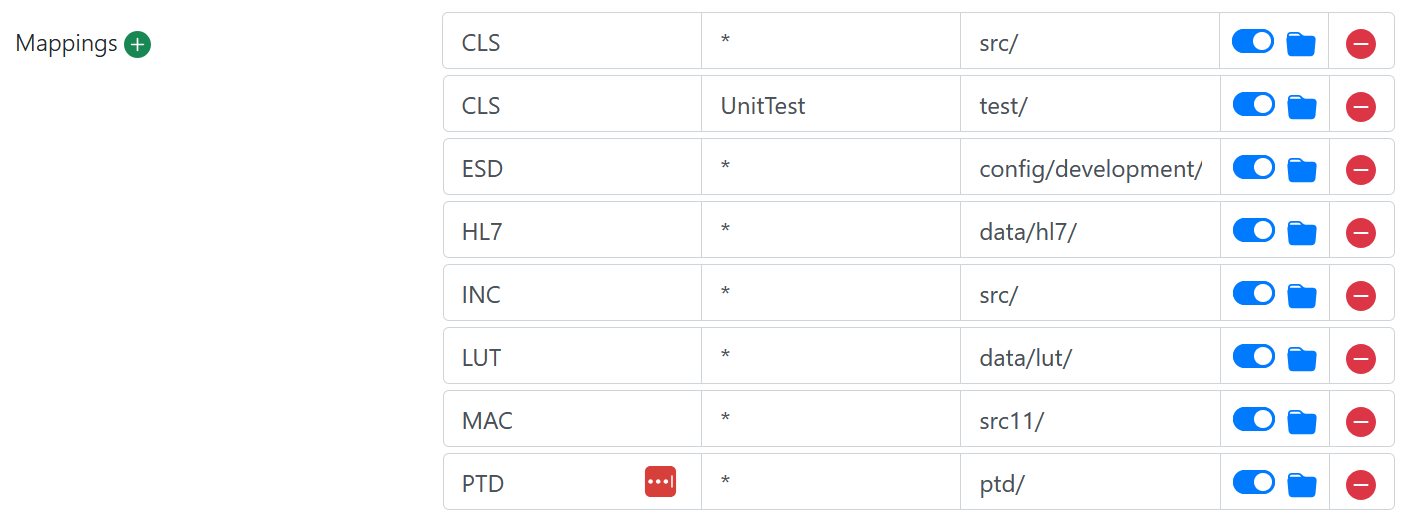
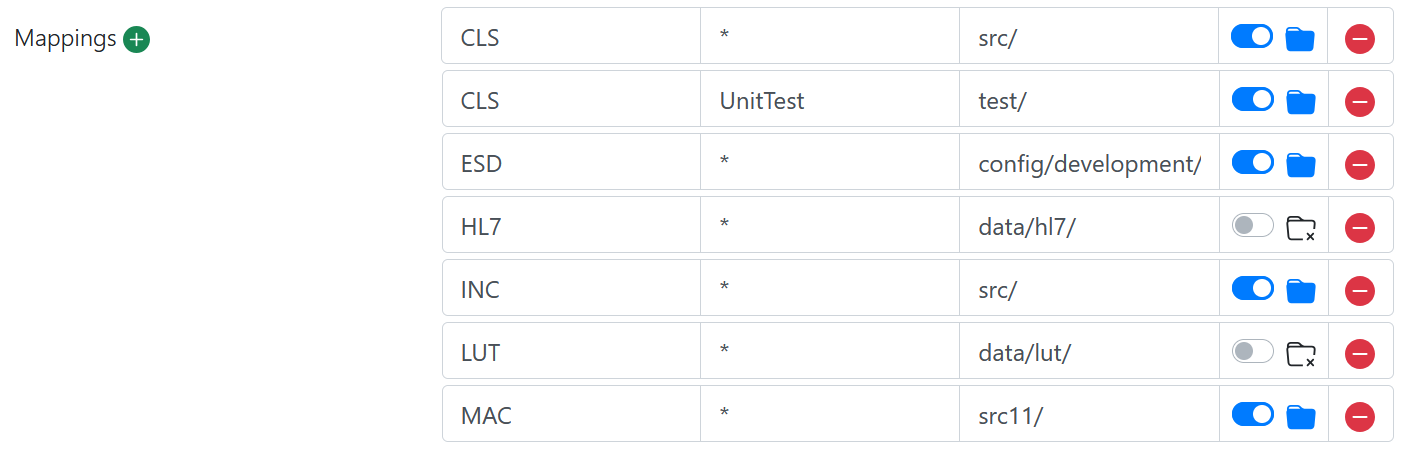
doc: updates to HCC recommended workflow

diff --git a/docs/hcc.md b/docs/hcc.md
@@ -1,36 +1,20 @@
-# NOTE: this document is a work in progress and should not be considered authoritative.
-
 # Change Control with Embedded Git for Health Connect Cloud
 
-## Glossary
-# TODO: move to end and move definitions inline
-* User Namespace: a namespace dedicated for in-progress work by a particular Health Connect Cloud user.
-* Protected Namespace: a namespace that exists with the same name in all deployments (Dev, Test, and Prod) in which the main interoperability production runs. Changes to protected namespaces are applied through CI/CD only.
-* Deployment: a Health Connect Cloud instance accessible through the Cloud Portal. There is typically a Dev, Test, and Prod deployment for each organization.
-* Dev Deployment: the Health Connect Cloud instance with a User Namespace for each user and one or more Protected Namespaces in which all development work originates
-* Test Deployment: the Health Connect Cloud instance in which interoperability components are tested prior to deployment to Prod.
-* Prod Deployment: the Health Connect Cloud instance serving actual production systems with interoperability.
-* protected branch: a branch in Git to which all commits must originate from a merge request
-* development branch: the protected branch associated with a Protected Namespace in the Dev Deployment. This branch is automatically present in the GitLab repository.
-* test branch: the protected branch associated with a Protected Namespace in the Test Deployment. This branch is automatically present in the GitLab repository.
-* live branch: the protected branch associated with a Protected Namespace in the Prod Deployment. This branch is automatically present in the GitLab repository.
-
 ## General 
-
 The recommended workflow for Health Connect Cloud is to: create an interface branch, make changes, sync them to GitLab, create a merge request, review and approve the merge request, and then pull the changes into a protected namespace.
 
-Step 1: Create a feature branch based on main
-![Step 1: Create a feature branch based on main](images/hcc/hcc-step-1.png)
-Step 2: Make changes in the user's namespace
-![Step 2: Make changes in the user's namespace](images/hcc/hcc-step-2.png)
-Step 3: Sync to get latest from main and push to GitLab
-![Step 3: Sync to get latest from main and push to GitLab](images/hcc/hcc-step-3.png)
+Step 1: Create an interface branch based on live
+![Step 1: Create a feature branch based on live](images/hcc/hcc-step-1.png)
+
+Step 2: Make changes in the User Namespace
+
+Step 3: Sync to get latest from live and push to GitLab
+![Step 3: Sync to get latest from live and push to GitLab](images/hcc/hcc-step-3.png)
+
 Step 4: Merge request and repeat 2-3
 ![Step 4: Merge request and repeat 2-3](images/hcc/hcc-step-4.png)
-Step 5: Deploy to the protected namespace
-![Step 5: Deploy to the protected namespace](images/hcc/hcc-step-5.png)
 
-A Health Connect Cloud Dev deployment will have at least one Protected Namespace and should also have a dedicated User Namespace for each user. These namespaces can be configured via the Cloud Portal for the selected Health Connect Cloud deployment. It is important for changes to originate in User Namespaces. Protected Namespaces in the Dev deployment must always be kept up to date with the development branch of the associated GitLab repo, either through a CI/CD pipeline or by use of the Git Pull page from Embedded Git.
+A Health Connect Cloud Dev deployment will have at least one Protected Namespace and should also have a dedicated User Namespace for each user. These namespaces can be configured via the Cloud Portal for the selected Health Connect Cloud deployment. It is important for changes to originate in User Namespaces. Protected Namespaces in the Dev deployment are automatically kept up to date with the development branch of the associated GitLab repo through a CI/CD pipeline.
 
 # Prerequisites: InterSystems Responsibilities
  - Create the GitLab repository for the organization
@@ -54,8 +38,8 @@ A Health Connect Cloud Dev deployment will have at least one Protected Namespace
 - Go to the production configuration page for your User Namespace
 - Create an interface branch
 - Add and test the service
-- Sync: After this operation, the User Namespace has everything from the Protected Namespace in addition to changes made in the interface branch, and all of the modified files have been pushed to GitLab.
-  - Technical level for the git-savvy: this commits to the interface branch locally, rebases the interface branch on the latest state of the development branch, updates the User Namespace with any changes made as a result, and force pushes the interface branch out to GitLab.
+- Sync: After this operation, the User Namespace has everything from the Prod Deployment in addition to changes made in the interface branch, and all of the modified files have been pushed to GitLab.
+  - Technical level for the git-savvy: this commits to the interface branch locally, rebases the interface branch on the latest state of the live branch, updates the User Namespace with any changes made as a result, and force pushes the interface branch out to GitLab.
 - Click the link to create a merge request targeting the `development` branch
 - Have the merge request approved and merged to the `development` branch
 - CI/CD deploys to the Protected Namespace on the Dev deployment
@@ -94,18 +78,18 @@ This will bring up the sync interface, where you are able to see all the of the 
 ![Sync Interface](images/hcc/syncinterface.png)
 
 ### Merge Request Creation
-Use the link in the output of the sync in order to create a merge request in the git remote (don't worry if you close out of the sync tab, you can also navigate to GitLab manually). Here, you should make sure that you are merging your interface branch into the development environment, and notify / add the relevant reviewers.
-TODO: add image of link in sync output
+Use the link in the output of the sync in order to create a merge request in the git remote (don't worry if you close out of the sync tab, you can also navigate to GitLab manually). Here, you should make sure that you are merging your interface branch into the development branch, and notify / add the relevant reviewers.
+![Output of Sync includes a merge request link](images/hcc/sync_output_merge_request_link.png)
 
-TODO: add image of GitLab merge request fields
-### Merge Request Approval
-Once this merge request is approved, it will be merged into the development branch, so that all of your changes will now be a part of development.
-
-### CI/CD Deployment
+![Create Merge Request page in GitLab](images/hcc/gitlab_merge_request.png)
+### Merge Request Approval and CI/CD deployment
+Once this merge request is approved, it will be merged into the development branch, so that all of your changes will now be a part of development. After the changes are merged, a CI/CD pipeline will automatically deploy the changes to the protected namespace in the development deployment.
 
 ### Validate in Protected Namespace
+Test your change in the protected namespace of the development environment to ensure that in works in the context of other developer's features that have been merged since you started working.
 
 ### Repeat in Test and Prod
+In GitLab, create a new merge request from your interface branch to the test branch. Approve and merge the merge request. A CI/CD pipeline will automatically deploy the changes to the protected namespace in the Test Deployment so you may test them there. When ready to go live with the changes, create another new merge request from your interface branch to the live branch. Approve and merge it, and the changes will be automatically deployed to the Prod Deployment.
 
 ## Example Use Case 2: You Get Interrupted
 
@@ -122,7 +106,6 @@ When creating a new namespace on the Health Connect instance, you will need to e
 - Configure the mappings in the settings. From the Settings page in the source control menu, view the Mappings configuration and confirm it matches the other namespaces. Below is a sample of a common mapping configuration.
 
 ![Mappings Configuration](images/hcc/configuremappings.png)
-TODO: fix this, show NoFolders for HL7 and LUT. remove the LastPass icon as well
 
 - Configure the default merge branch. From the Settings page in the source control menu, the "Default merge branch" input should match that configured for other namespaces.
 
@@ -132,65 +115,66 @@ TODO: fix this, show NoFolders for HL7 and LUT. remove the LastPass icon as well
 
 ![Import All (Force)](images/hcc/importallforce.png)
 
-### Deploying Changes to the Main Dev Namespace
+## Deploying using CI/CD Pipelines
 
-If you are using a CI/CD pipeline in GitLab, simply merging the feature branch to development is enough; your change will be deployed to the main development namespace automatically.
-
-If you are not using a CI/CD pipeline, you can get merged changes into the main development namespace using the "Git Pull" link from the Favorites section in the Health Connect Cloud home page. This will load and compile the incremental set of changes from new commits to the development branch.
-
-### Deploying Changes to Test and Prod
-
-#### Deploying using CI/CD Pipelines
-
-With CI/CD pipelines in place, the most important thing is that there is a branch in GitLab that corresponds to the main namespace in Test and another that corresponds to the main namespace on Prod, so that you can see exactly when changes made it to each branch/environment. With CI/CD pipelines, there's no action needed to move the change forward - merging the merge request is sufficient. The recommended workflow for this is to create additional merge requests from the interface branch to each of Test and Prod. Other Git branching and change flows may be appropriate if you have a strong opinion about them.
+With CI/CD pipelines in place, the most important thing is that there is a branch in GitLab that corresponds to the protected namespace in Test and another that corresponds to the protected namespace on Prod, so that you can see exactly when changes made it to each branch/environment. With CI/CD pipelines, there's no action needed to move the change forward - merging the merge request is sufficient. The recommended workflow for this is to create additional merge requests from the interface branch to each of Test and Prod.
 
 
-### Change Control Workflow for Code Deployment to Target Environment
+# Fallback Approach: VS Code and a Local Git Repository
+Some users may prefer a client-side source control approach instead of Embedded Git. This requires an additional step of exporting items from the Health Connect Cloud deployment to a local Git repository using Visual Studio Code. It's important not to mix this approach with the Embedded Git approach. Mixing server-side and client-side source control in the same namespace can lead to major confusion.
 
-This guide provides step-by-step instructions for developers on how to perform code changes and move code from a local repository to a target environment using a Change Control tool based on VSCode and GitLab.
-
-## Fallback Approach: VSCode and a Local Git Repository
-
+# Example Use Case: Inbound HL7 Service (Local Git)
 > As a Health Connect Cloud user, I want to add a new inbound HL7 service to receive HL7 messages from a lab.
 
-TODO: note about not mixing this approach with Embedded Git
 
-### **(*Optional*) Create an Issue**
+### (*Optional*) Create an Issue
    - If necessary, create an issue in GitLab to describe the work to be done and document any requirements. This can help track progress and serve as a reference for the changes made.
 
-### **Create New Branch via GitLab**
+### Create New Branch via GitLab
    - Navigate to the GitLab repository and create a new branch. This branch will serve as the workspace for your changes.
    - Branch naming should follow your team's conventions (e.g., `feature/issue-1234`).
 
-### **Perform Change in Health Connect Cloud**
+### Perform Change in Health Connect Cloud
    - Make the necessary modifications in Health Connect Cloud according to your issue's requirements or planned changes.
-   - Ensure that changes are tested and validated locally to avoid issues downstream.
+   - Ensure that changes are tested and validated to avoid issues downstream.
 
-### **Export Change from Health Connect Cloud to VSCode**
-   - Export the updated components or files from Health Connect Cloud and open them in VSCode.
+### Export Change from Health Connect Cloud to VS Code
+   - Export the updated components or files from Health Connect Cloud and open them in VS Code.
    - This ensures your local repository reflects the changes you made in the cloud environment.
 
-#### **Review Changes in VSCode**
-   - Review the changes within VSCode to confirm they are accurate and meet the requirements outlined in the issue (if applicable).
+### Review Changes in VS Code
+   - Review the changes within VS Code to confirm they are accurate and meet the requirements outlined in the issue (if applicable).
    - Ensure the code adheres to coding standards and best practices.
 
-#### **Add Commit Remarks**
+### Add Commit Remarks
    - Add detailed commit remarks in VSCode to describe the changes. This helps other team members understand the purpose and details of the update.
 
-#### **Commit Change in VSCode**
+### Commit Change in VSCode
    - Commit the reviewed and validated changes in VSCode. Use the commit message format that aligns with your team's guidelines.
 
-#### **Sync Reviewed Changes in VSCode**
+### Sync Reviewed Changes in VSCode
    - Push the committed changes from VSCode to the corresponding branch in GitLab. This step synchronizes your local updates with the remote repository.
 
-### **Merge Changes in GitLab from Local Repository to Target Environment**
+### Merge Changes in GitLab from Local Repository to Target Environment
    - After confirming that all necessary changes are pushed, prepare to merge from your feature branch to the target environment (e.g., development, test or production).
 
-#### **Create New Merge Request from Local to Target Environment**
+#### Create New Merge Request from Local to Target Environment
    - In GitLab, create a new Merge Request (MR) from your feature branch to the target environment.
    - Include relevant details in the MR description, such as the issue number, summary of changes, and any additional notes.
    - Assign reviewers or approvers as required.
 
-#### **Review and Approval**
+#### Review and Approval
    - Wait for the required reviews and approvals before merging.
    - After the MR is approved, complete the merge to move the code to the target environment.
+
+# Glossary
+* User Namespace: a namespace dedicated for in-progress work by a particular Health Connect Cloud user.
+* Protected Namespace: a namespace that exists with the same name in all deployments (Dev, Test, and Prod) in which the main interoperability production runs. Changes to protected namespaces are applied through CI/CD only.
+* Deployment: a Health Connect Cloud instance accessible through the Cloud Portal. There is typically a Dev, Test, and Prod deployment for each organization.
+* Dev Deployment: the Health Connect Cloud instance with a User Namespace for each user and one or more Protected Namespaces in which all development work originates
+* Test Deployment: the Health Connect Cloud instance in which interoperability components are tested prior to deployment to Prod.
+* Prod Deployment: the Health Connect Cloud instance serving actual production systems with interoperability.
+* protected branch: a branch in Git to which all commits must originate from a merge request
+* development branch: the protected branch associated with a Protected Namespace in the Dev Deployment. This branch is automatically present in the GitLab repository.
+* test branch: the protected branch associated with a Protected Namespace in the Test Deployment. This branch is automatically present in the GitLab repository.
+* live branch: the protected branch associated with a Protected Namespace in the Prod Deployment. This branch is automatically present in the GitLab repository.
